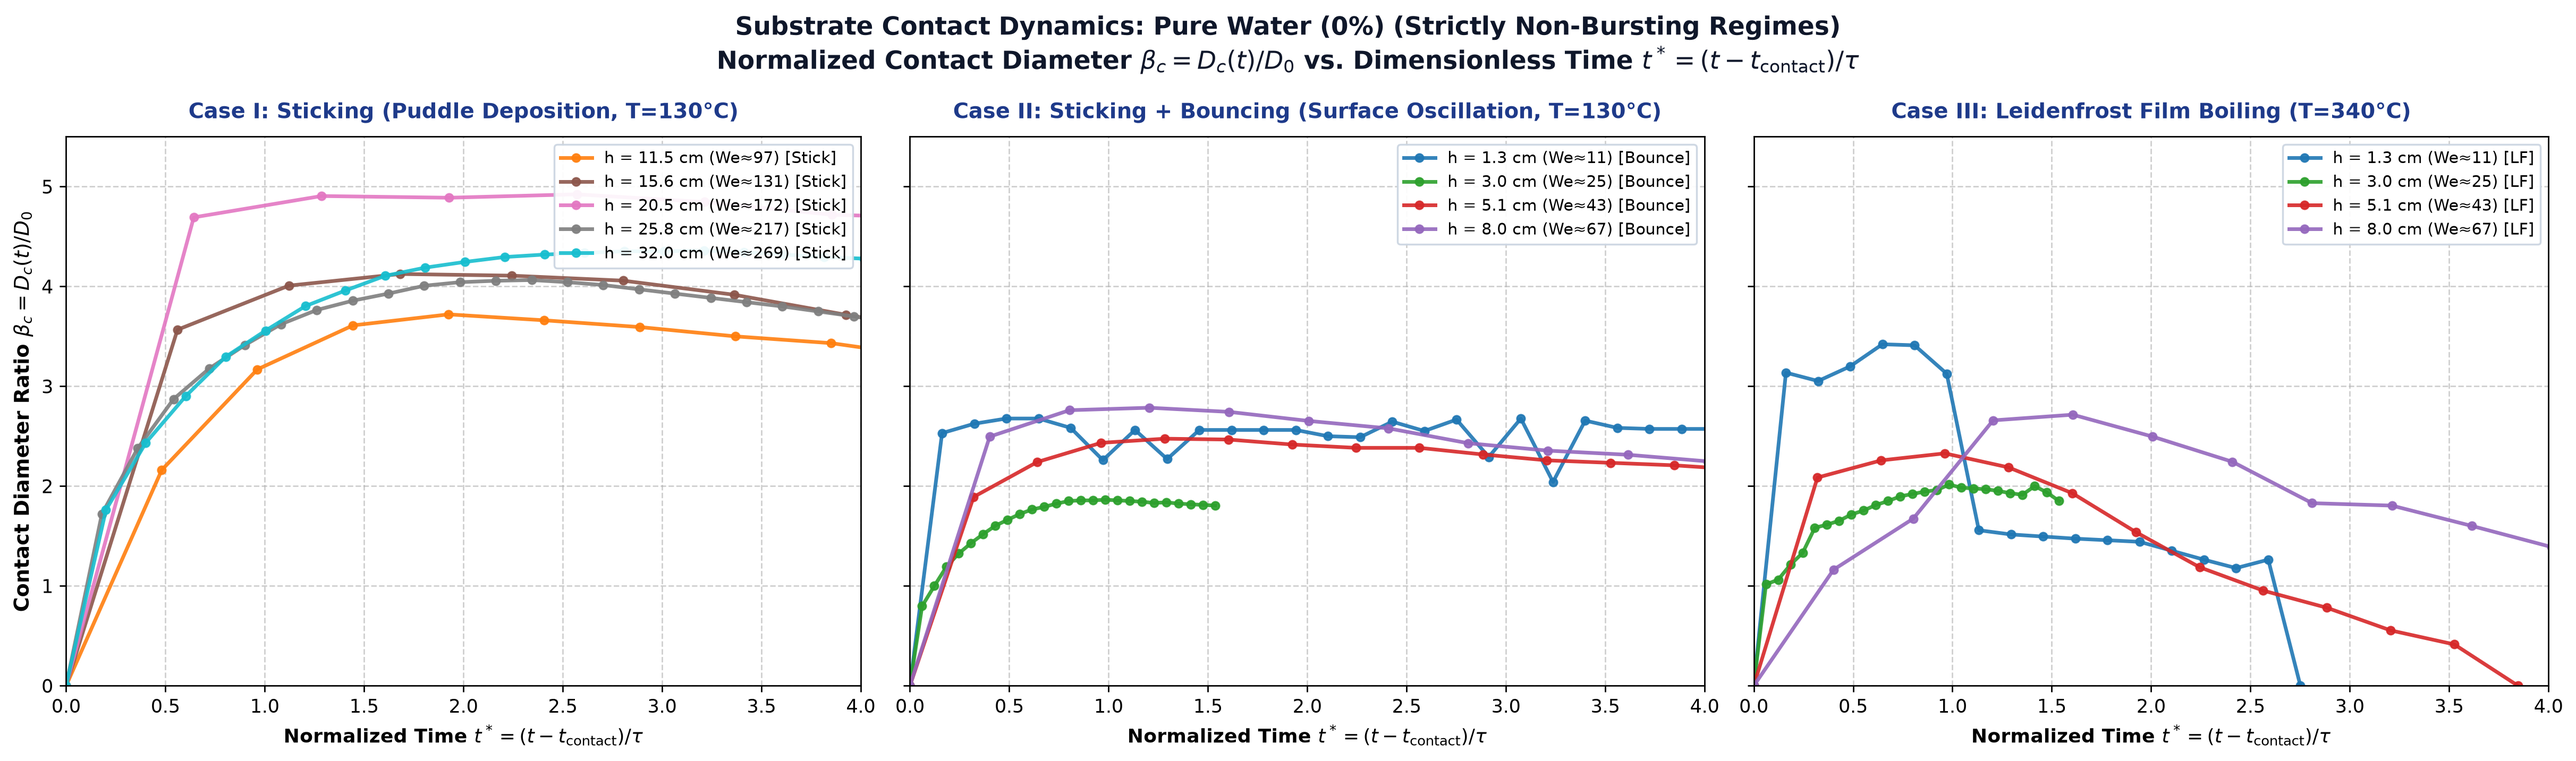
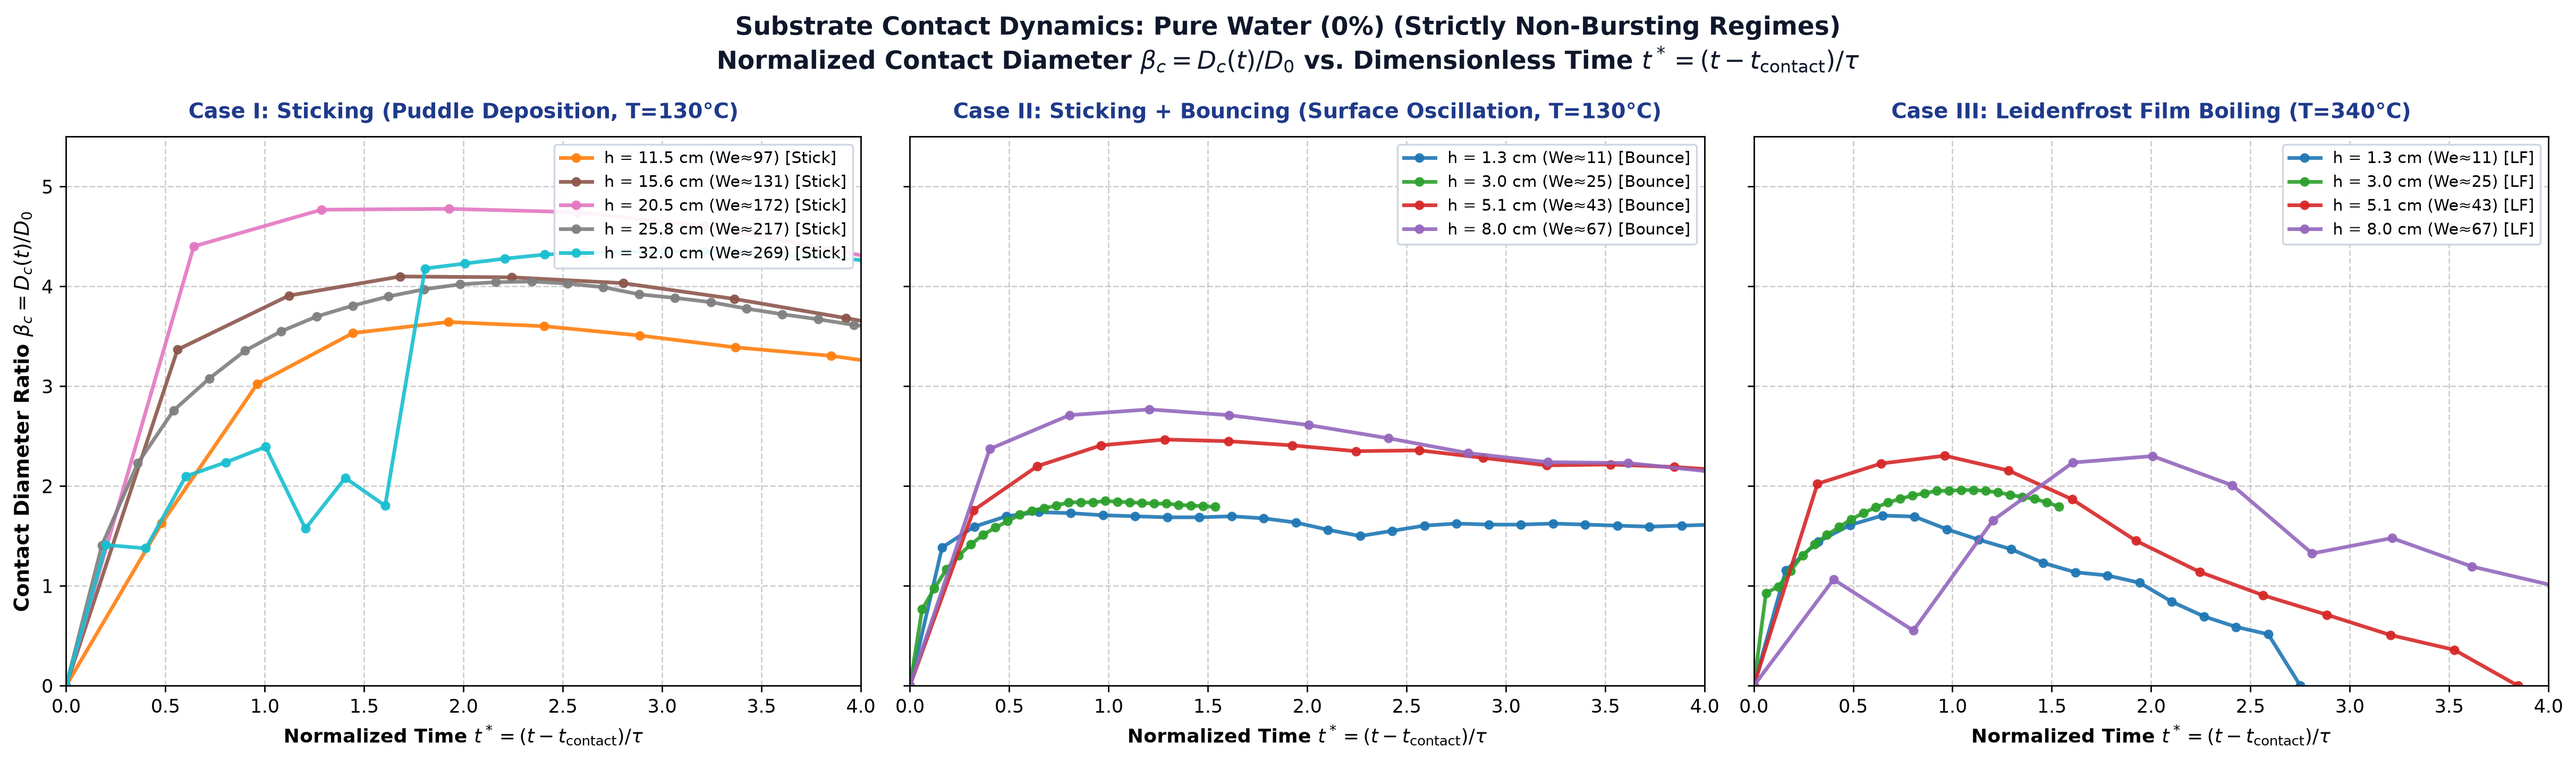
Clean duplicate Pure Water analysis frames, enforce true .cihx FPS, exclude needle-tip pendant drop & glare spikes

diff --git a/rectify_all_pure_water.py b/rectify_all_pure_water.py
@@ -22,6 +22,7 @@ Features:
 
 import os
 import glob
+import re
 import time
 import cv2
 import numpy as np
@@ -34,10 +35,31 @@ BASE_ANALYSIS_DIR = r"C:\Users\Pablo\Desktop\Analysis"
 MASTER_PLOT2_CSV = r"C:\Users\Pablo\Desktop\Analysis\plot_2\master_summary_plot_2_rectified.csv"
 MASTER_PHYSICS_CSV = r"C:\Users\Pablo\Desktop\Analysis\plots\master_summary_with_physics.csv"
 
-CAMERA_FPS = 4000.0
+DEFAULT_CAMERA_FPS = 4000.0
 STANDARD_DROPLET_DIA_MM = 3.1204
 TOTAL_FRAMES_TO_PROCESS = 250
 Y_TOP_CUT = 40
+
+
+def read_camera_fps(raw_dir):
+    cih = glob.glob(os.path.join(raw_dir, "*.cih")) + glob.glob(os.path.join(raw_dir, "*.cihx"))
+    if not cih:
+        return DEFAULT_CAMERA_FPS
+    txt = open(cih[0], "r", errors="ignore").read()
+    mm = re.search(r"Record Rate\(fps\)\s*:\s*(\d+)", txt) or re.search(r"<recordRate>(\d+)<", txt)
+    return float(mm.group(1)) if mm else DEFAULT_CAMERA_FPS
+
+
+def detect_needle_boxes(img0_gray, W, y_contact):
+    max_y = min(max(60, y_contact - 160), 350)
+    n_mask = (img0_gray[:max_y, :] < 130).astype(np.uint8) * 255
+    ncnts, _ = cv2.findContours(n_mask, cv2.RETR_EXTERNAL, cv2.CHAIN_APPROX_SIMPLE)
+    boxes = []
+    for nc in ncnts:
+        nx, ny, nw, nh = cv2.boundingRect(nc)
+        if ny <= 15 and nh > 20 and 300 < nx < W - 300:
+            boxes.append((nx, ny, nw, nh))
+    return boxes
 
 
 def get_calibrated_y_contact(height_folder, temp_c=None):
@@ -92,32 +114,34 @@ def detect_case_t0(files, bg, y_c, y_top_cut=40):
     return t_contact
 
 
-def reconstruct_water_droplet_contour(im, bg, y_contact, y_top_cut, y_effective_clip=None):
+def reconstruct_water_droplet_contour(im, bg, y_contact, y_top_cut, y_effective_clip=None, needle_boxes=None):
     """
     Robust segmentation and contour reconstruction for pure water droplets,
-    preserving transparent liquid cores while strictly rejecting thin horizontal
-    surface shimmer slivers and isolated frame border noise.
+    preserving transparent liquid cores while strictly rejecting bright horizon
+    glare shimmer slivers, needle pendant drops, and isolated border noise.
     """
     clip_y = y_contact if y_effective_clip is None else min(y_contact, int(y_effective_clip))
     diff = cv2.subtract(bg, im)
 
-    sil = ((diff > 25) & (bg > 55)).astype(np.uint8) * 255
+    sil = ((diff > 28) & (im < 185) & (bg > 55)).astype(np.uint8) * 255
+    hor_y = max(y_top_cut + 2, clip_y - 14)
+    sil[hor_y:clip_y + 1, :] = ((diff[hor_y:clip_y + 1, :] > 35) & (im[hor_y:clip_y + 1, :] < 155) & (bg[hor_y:clip_y + 1, :] > 55)).astype(np.uint8) * 255
     sil[clip_y + 1:, :] = 0
     sil[:y_top_cut, :] = 0
+    if needle_boxes:
+        for nx, ny, nw, nh in needle_boxes:
+            sil[:min(clip_y - 160, ny + nh + 70), max(0, nx - 45):min(im.shape[1], nx + nw + 45)] = 0
     sil[:, :20] = 0
     sil[:, im.shape[1] - 20:] = 0
 
-    split_y = max(y_top_cut + 2, clip_y - 12)
-    top_part = cv2.morphologyEx(sil[:split_y, :], cv2.MORPH_CLOSE, np.ones((5, 45), np.uint8))
-    bot_part = cv2.morphologyEx(sil[split_y:, :], cv2.MORPH_CLOSE, np.ones((3, 15), np.uint8))
-    combined = np.vstack([top_part, bot_part])
+    combined = cv2.morphologyEx(sil, cv2.MORPH_CLOSE, np.ones((3, 9), np.uint8))
 
     cnts, _ = cv2.findContours(combined, cv2.RETR_EXTERNAL, cv2.CHAIN_APPROX_SIMPLE)
     valid_cnts = []
     for c in cnts:
         bx, by, bw, bh = cv2.boundingRect(c)
-        # Strictly reject thin horizontal shimmer slivers (e.g. height < 11 and aspect ratio > 4.5)
-        if bh < 11 and (bw > 25 or bw / max(1, bh) > 4.5):
+        # Strictly reject thin horizontal shimmer slivers (e.g. height < 10 and wide)
+        if bh < 10 and (bw > 20 or bw / max(1, bh) > 4.0):
             continue
         if cv2.contourArea(c) > 180:
             valid_cnts.append(c)
@@ -134,8 +158,8 @@ def reconstruct_water_droplet_contour(im, bg, y_contact, y_top_cut, y_effective_
         if c is main_c:
             continue
         cx, cy, cw, ch = cv2.boundingRect(c)
-        if cy < my + mh + 6 and cy + ch > my - 6:
-            if cx <= mx + mw + 40 and cx + cw >= mx - 40:
+        if cy < my + mh + 5 and cy + ch > my - 5:
+            if cx <= mx + mw + 12 and cx + cw >= mx - 12:
                 cv2.drawContours(droplet_mask, [c], -1, 255, -1)
 
     # Scanline horizontal fill ONLY within the bounds of the droplet
@@ -173,7 +197,13 @@ def process_single_case(case_info):
     raw_dir = os.path.join(BASE_EXP_DIR, "pure water", h_fld, c_fld)
     out_dir = os.path.join(BASE_ANALYSIS_DIR, "pure water", h_fld, c_fld)
     os.makedirs(out_dir, exist_ok=True)
+    for old_f in glob.glob(os.path.join(out_dir, "frame_*.jpg")):
+        try:
+            os.remove(old_f)
+        except OSError:
+            pass
 
+    camera_fps = read_camera_fps(raw_dir)
     files = sorted(glob.glob(os.path.join(raw_dir, "*.jpg")))
     if not files:
         return None
@@ -181,6 +211,7 @@ def process_single_case(case_info):
     img0 = cv2.imread(files[0])
     img0_gray = cv2.cvtColor(img0, cv2.COLOR_BGR2GRAY)
     H, W = img0_gray.shape
+    needle_boxes = detect_needle_boxes(img0_gray, W, y_contact)
 
     sample_idx = np.linspace(0, min(len(files) - 1, 180), 19, dtype=int)
     bg90_gray = np.percentile([cv2.imread(files[i], cv2.IMREAD_GRAYSCALE) for i in sample_idx], 90, axis=0).astype(np.uint8)
@@ -205,7 +236,7 @@ def process_single_case(case_info):
 
         rel_step = f_idx - t0
         frame_num = rel_step + 1
-        time_s = rel_step / CAMERA_FPS
+        time_s = rel_step / camera_fps
         time_ms = time_s * 1000.0
         step_name = f"t0+{rel_step:02d}"
         status = "PRE-IMPACT (AIRBORNE)" if rel_step == 0 else "AIRBORNE"
@@ -216,8 +247,21 @@ def process_single_case(case_info):
             dark_rows = np.where((col < 180) & (np.arange(H) < y_contact - 3))[0]
             y_effective_clip = int(dark_rows.max()) if len(dark_rows) > 0 else y_contact - 10
 
-        c, solid = reconstruct_water_droplet_contour(gray, bg, y_contact, y_top_cut, y_effective_clip)
+        c, solid = reconstruct_water_droplet_contour(gray, bg, y_contact, y_top_cut, y_effective_clip, needle_boxes)
         sat_contours, sat_stats = detect_burst_fragments(gray, bg, y_contact, y_top_cut, solid, x_hint)
+        if needle_boxes and sat_contours:
+            filt_c, filt_s = [], []
+            for sc, ss in zip(sat_contours, sat_stats):
+                sx, sy, sw, sh = cv2.boundingRect(sc)
+                in_needle = any(
+                    sy <= min(y_contact - 150, ny + nh + 70) and
+                    sx + sw >= nx - 45 and sx <= nx + nw + 45
+                    for (nx, ny, nw, nh) in needle_boxes
+                )
+                if not in_needle:
+                    filt_c.append(sc)
+                    filt_s.append(ss)
+            sat_contours, sat_stats = filt_c, filt_s
 
         d_contact_px = 0
         d_contact_mm = 0.0
@@ -359,7 +403,7 @@ def process_single_case(case_info):
                         cv2.FONT_HERSHEY_SIMPLEX, 0.45, (200, 200, 200), 1, cv2.LINE_AA)
 
         # Telemetry
-        box_w, box_h = 420, 260
+        box_w, box_h = 465, 260
         bx1, by1 = 15, 15
         bx2, by2 = bx1 + box_w, by1 + box_h
         cv2.rectangle(canvas, (bx1, by1), (bx2, by2), (20, 20, 20), -1)
@@ -368,7 +412,7 @@ def process_single_case(case_info):
         c_color = (0, 255, 0) if status == "IN CONTACT" else (0, 180, 255)
         lines = [
             (f"Case: {h_fld} / {c_fld}", (255, 255, 255), 0.52, 2),
-            (f"Frame #{frame_num:03d} ({step_name}) | t = {time_ms:.2f} ms ({CAMERA_FPS:.0f} fps) | {orig_fname}", (180, 180, 180), 0.38, 1),
+            (f"Frame #{frame_num:03d} ({step_name}) | t = {time_ms:.2f} ms ({camera_fps:.0f} fps) | {orig_fname}", (180, 180, 180), 0.38, 1),
             (f"Contact (Dc) : {d_contact_px}px | {d_contact_mm:.2f}mm | Beta={beta_contact:.3f} [{status}]", c_color, 0.46, 2),
             (f"Apex H (H) : {height_px}px | {height_mm:.2f}mm | H/D0={norm_height:.3f}", (0, 240, 255), 0.46, 2),
             (f"3D CoM (Hcm) : {com_height_px:.1f}px | {com_height_mm:.2f}mm | Hcm/D0={norm_com_height:.3f}", (255, 100, 255), 0.46, 2),
@@ -380,7 +424,7 @@ def process_single_case(case_info):
             cv2.putText(canvas, text, (bx1 + 12, curr_y), cv2.FONT_HERSHEY_SIMPLEX, font_scale, color, thickness, cv2.LINE_AA)
             curr_y += 32
 
-        out_fname = f"frame_{rel_step:04d}_{step_name}.jpg"
+        out_fname = f"frame_{frame_num:04d}_{step_name}_{time_ms:.2f}ms.jpg"
         cv2.imwrite(os.path.join(out_dir, out_fname), canvas)
 
         records.append({
@@ -414,7 +458,7 @@ def process_single_case(case_info):
             'Standard_D0_mm': STANDARD_DROPLET_DIA_MM,
             'Standard_Scale_px_per_mm': round(scale, 4),
             'mm_per_pixel': round(mm_per_px, 6),
-            'Camera_FPS': CAMERA_FPS
+            'Camera_FPS': camera_fps
         })
 
     df_out = pd.DataFrame(records)
